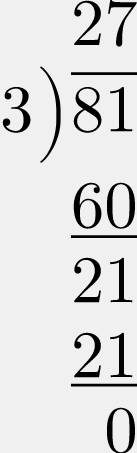
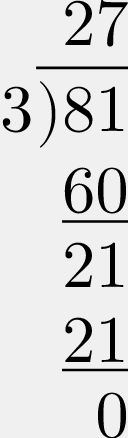
fix: match CTAN long division header

diff --git a/CSharpMath.Core.Tests/Atom/LongDivisionTests.cs b/CSharpMath.Core.Tests/Atom/LongDivisionTests.cs
@@ -102,10 +102,12 @@ namespace CSharpMath.Core.AtomTests {
       var atom = new LongDivision("12345", "13");
       var layout = (Table)typeof(LongDivision).GetMethod("CreateLayout", BindingFlags.Instance | BindingFlags.NonPublic)!.Invoke(atom, null)!;
       var dividend = layout.Cells[1][1];
-      var inner = Assert.IsType<Inner>(dividend[0]);
+      var overline = Assert.IsType<Overline>(dividend[0]);
+      var inner = Assert.IsType<Inner>(overline.InnerList[0]);
       Assert.Equal(")", inner.LeftBoundary.Nucleus);
       Assert.Equal(Boundary.Empty, inner.RightBoundary);
-      Assert.IsType<Overline>(inner.InnerList[0]);
+      var digits = Assert.IsType<Number>(inner.InnerList[0]);
+      Assert.Equal("12345", digits.Nucleus);
       Assert.Equal("949", CellText(layout.Cells[0][1]));
       Assert.Equal(ColumnAlignment.Right, layout.GetAlignment(1));
       Assert.Equal(1, layout.Cells.Count(row => row.Any(cell => CellText(cell) == atom.Remainder)));

diff --git a/CSharpMath/Atom/Atoms/LongDivision.cs b/CSharpMath/Atom/Atoms/LongDivision.cs
@@ -47,10 +47,10 @@ namespace CSharpMath.Atom.Atoms {
       var table = new Table { InterColumnSpacing = 1, InterRowAdditionalSpacing = 1 };
       table.SetCell(Digits(QuotientText), 0, 1);
       table.SetCell(Digits(Denominator), 1, 0);
-      table.SetCell(new MathList(new Inner(
+      table.SetCell(new MathList(new Overline(new MathList(new Inner(
         new Boundary(")"),
-        new MathList(new Overline(Digits(Numerator))),
-        Boundary.Empty)), 1, 1);
+        Digits(Numerator),
+        Boundary.Empty)))), 1, 1);
       table.SetAlignment(ColumnAlignment.Right, 0);
       table.SetAlignment(ColumnAlignment.Right, 1);
 
